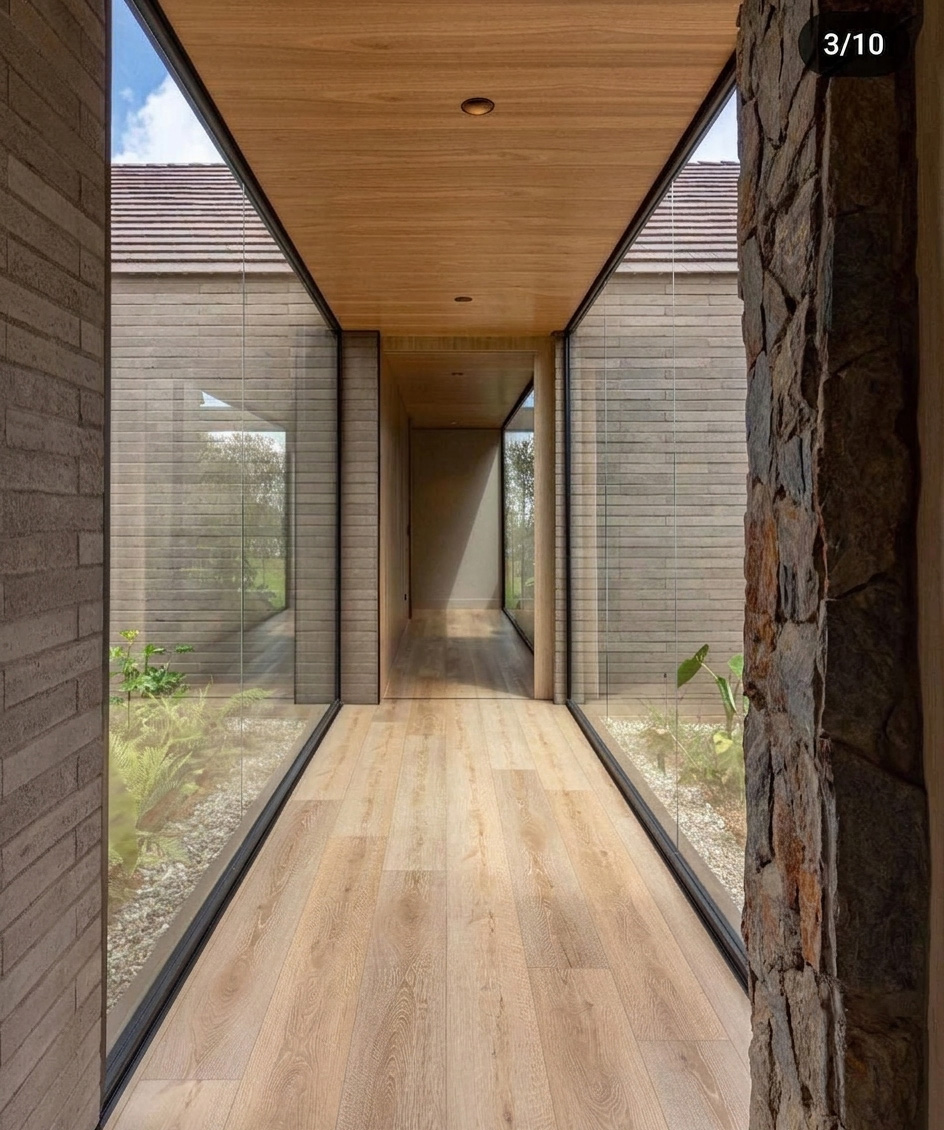
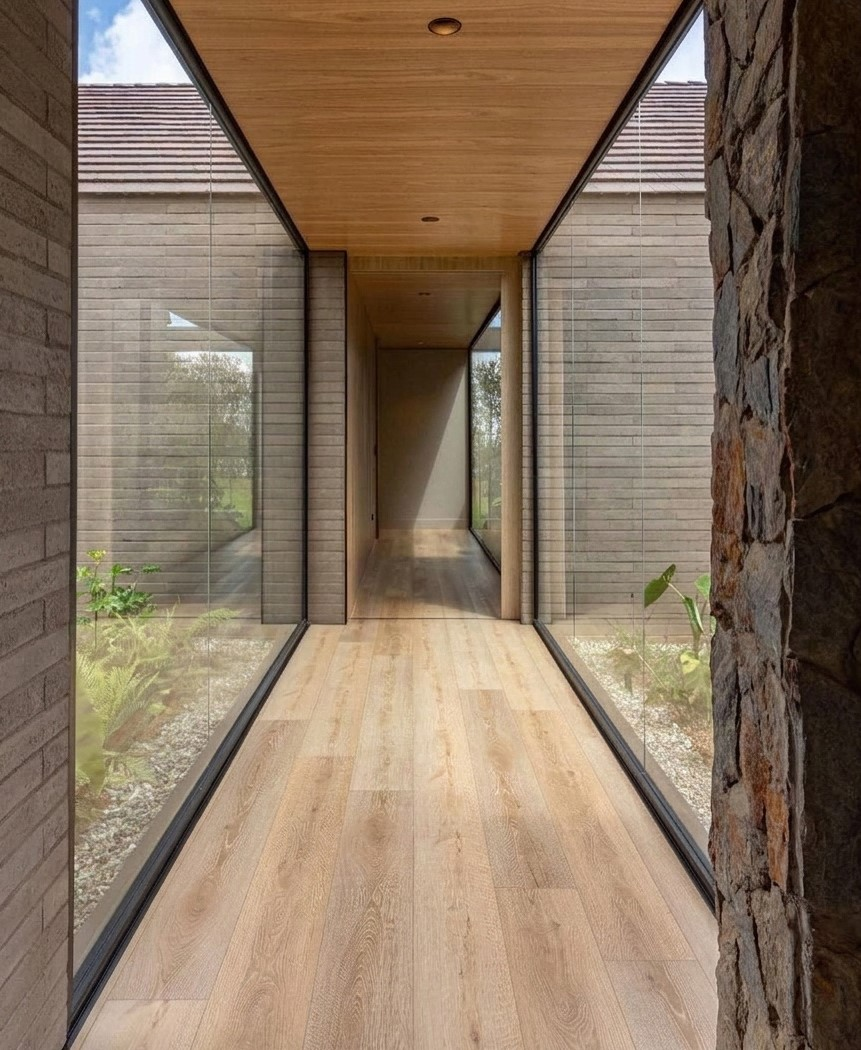
update

diff --git a/en/Blog/can-wood-flooring-handle-water-water-and-humidity.html b/en/Blog/can-wood-flooring-handle-water-water-and-humidity.html
@@ -3,20 +3,20 @@
 <head>
     <meta charset="UTF-8">
     <meta name="viewport" content="width=device-width, initial-scale=1.0">
-    <title>Can Wood Flooring Handle Water? Understanding Water & Humidity | CASA Parquet</title>
+    <title>CASA Parquet | Can Wood Flooring Handle Water? Understanding Water & Humidity</title>
 
     <meta name="description" content="Can wood flooring handle water? Learn how water, humidity, floor construction and surface finishes affect timber stability, plus practical considerations for use.">
 
    
     <meta property="og:type" content="article">
-    <meta property="og:title" content="Can Wood Flooring Handle Water? Understanding Water & Humidity | CASA Parquet">
+    <meta property="og:title" content="Can Wood Flooring Handle Water? Understanding Water & Humidity">
     <meta property="og:description" content="Can wood flooring handle water? Learn how water, humidity, floor construction and surface finishes affect timber stability, plus practical considerations for use.">
     <meta property="og:url" content="https://casa-parquet.vn/en/Blog/can-wood-flooring-handle-water-water-and-humidity.html">
     <meta property="og:site_name" content="CASA Parquet">
     <meta property="og:image" content="https://casa-parquet.vn/image/imagesblogsangocochiunuockhong/Hero-image.jpg">
 
     <meta name="twitter:card" content="summary_large_image">
-    <meta name="twitter:title" content="Can Wood Flooring Handle Water? Understanding Water & Humidity | CASA Parquet">
+    <meta name="twitter:title" content="Can Wood Flooring Handle Water? Understanding Water & Humidity">
     <meta name="twitter:description" content="Can wood flooring handle water? Learn how water, humidity, floor construction and surface finishes affect timber stability, plus practical considerations for use.">
     <meta name="twitter:image" content="https://casa-parquet.vn/image/imagesblogsangocochiunuockhong/Hero-image.jpg">
 

diff --git a/en/blog.html b/en/blog.html
@@ -626,6 +626,20 @@
                 </div>
             </article>
 
+
+            <article class="blog-card" data-category="bao-duong">
+                <a href="/en/Blog/can-wood-flooring-handle-water-water-and-humidity.html" class="blog-card-image">
+                    <img src="/image/imagesblogsangocochiunuockhong/Hero-image.jpg" alt="Can wood Flooring Handle Water?">
+                </a>
+                <div class="blog-card-content">
+                    <a href="/en/Blog/can-wood-flooring-handle-water-water-and-humidity.html" class="blog-card-title">
+                        <h3>CASA Parquet | Can Wood Flooring Handle Water? Understanding Water & Humidity</h3>
+                    </a>
+                    <p class="blog-card-desc">
+                        How well wood flooring remains stable around water and humidity depends on its construction, surface finish, installation conditions and the way the material is used...
+                    </p>
+                </div>
+            </article>
             
 
 
